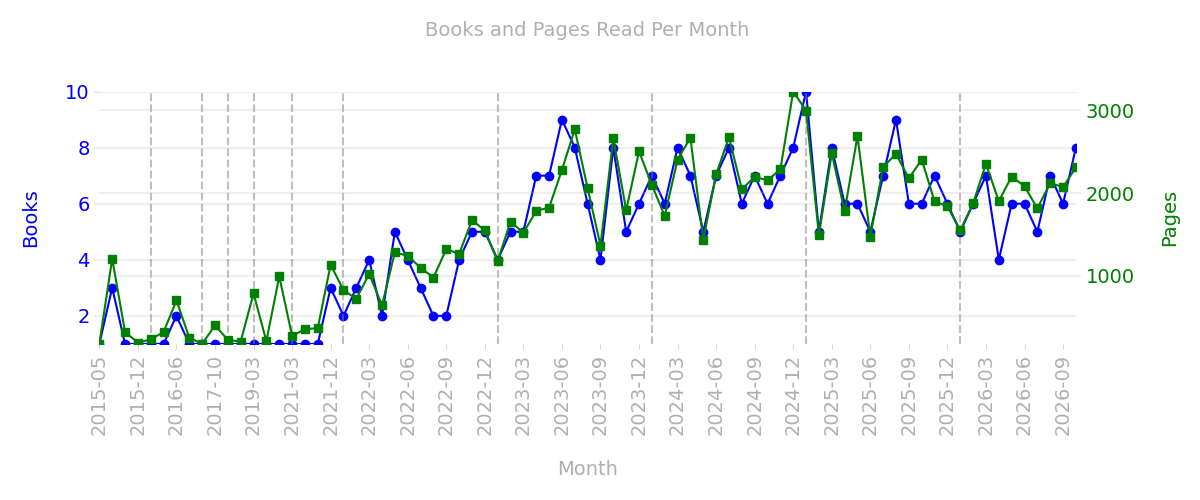
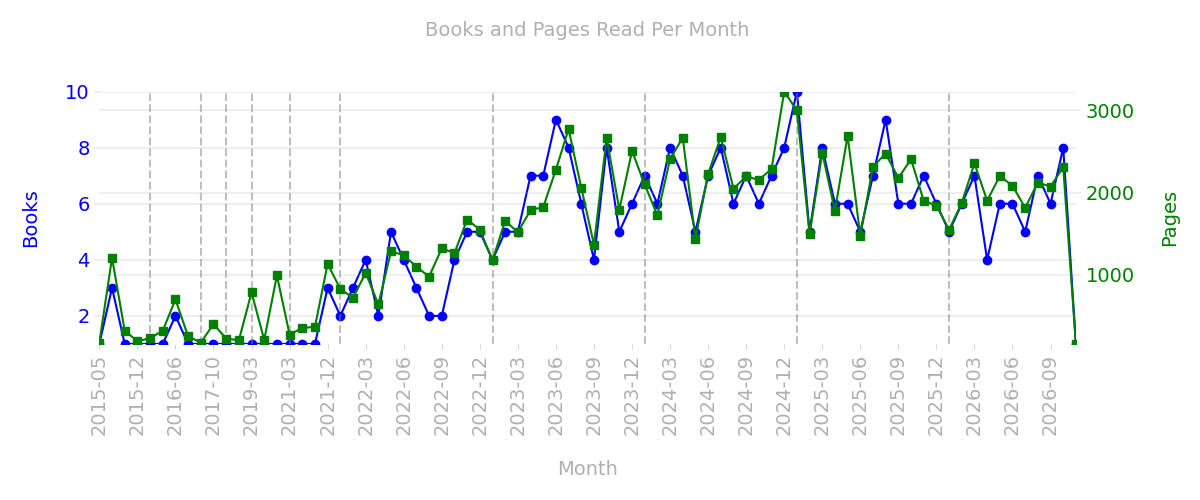
ökosemiootiak

Changed region(s): [[0.0925, 0.18, 0.9558, 0.69], [0.0925, 0.72, 0.8942, 0.87], [0.8942, 0.54, 0.9558, 0.57]]

diff --git a/Views/Books_2026.md b/Views/Books_2026.md
@@ -1,6 +1,6 @@
 # Books Read in 2026
 
-**Total: 60 books**
+**Total: 61 books**
 
 ### Incorruptible: Why Good Companies Go Bad and How Great Companies Stay Great
 **Author:** Eric Ries  
@@ -1079,6 +1079,19 @@ Ranging from Aristotle, Schopenhauer, and John Stuart Mill to Virginia Woolf and
 ![[covers/Systems Thinking Made Simple New Hope for Solving Wicked Problems.jpg|150]]  
 
 Systems thinking can help us solve everyday and wicked problems, increase our personal effectiveness as human beings, and transform our organizations. This book is for anyone interested in learning the foundational ideas of systems thinking. SIMPLE RULES OF SYSTEMS THINKING Systems Thinking Made Simple doesn't mean that we're going to oversimplify it like a ... for Dummies book. It means that we will show how systems thinking emerges when we focus on a simple set of rules. After years of searching for unifying principles, many experts and practitioners in the field of systems thinking have embraced DSRP as universal to all systems thinking methods. Originally a complex mathematical formulation, DSRP has since been made more accessible through powerful modeling and visualization tools. There are two surprising things about our new understanding of systems thinking. First is how simple the four rules DISTINCTIONS Any idea or thing can be distinguished from the other ideas or things it is with SYSTEMS Any idea or thing can be split into parts or lumped into a whole RELATIONSHIP Any idea or thing can relate to other things or ideas PERSPECTIVES Any thing or idea can be the point or the view of a perspective.
+
+---
+
+### Ökosemiootika. Märgiuuringud ja ökoloogiline muutus
+**Author:** Timo Maran  
+**Published:** 2022  
+**Finished:** 2026-11  
+**Rating:** ⭐⭐⭐⭐⭐  
+**Pages:** 160  
+
+![[covers/Ökosemiootika Märgiuuringud ja ökoloogiline muutus.jpg|150]]  
+
+Raamat esitab sissejuhatuse ökosemiootikasse ja näitab selle asjakohasust tänapäeva ebastabiilsete kultuuri ja looduse suhete uurimisel. Ökosemiootikat võib defineerida kui nende märgiprotsesside uurimist, millest ökoloogilised nähtused sõltuvad. Mõtisklusi esitatakse teoses kolmes etapis, ammutades inspiratsiooni nii humanitaarteadustest kui ka bioloogiast. Esimeses peatükis selgitatakse märkide vahendatud suhete mitmekesisust, ulatust ja mõju looduskeskkonnas, alates üksikindiviidi tasandist kuni ökosüsteemi funktsioneerimiseni. Teises peatükis näidatakse eri viise, kuidas eelkeelelised semiootilised suhted on osa kultuurist ning osutatakse kahjulikele keskkonnamõjudele, mille toovad kaasa enesesse sulgunud ja pelgalt sümbolipõhised märgisüsteemid. Kolmandas peatükis selgub, kuidas mudelitele ja modelleerimisele keskenduv ökosemiootiline analüüs suudab efektiivselt kaardistada tekstide ja looduskeskkonna suhteid või tuua esile nende puudumise ning kuidas saab seda lähenemist loominguliselt kasutada, et panna alus keskkonnasõbralikele kultuurivormidele ja -praktikatele. Käesolev teos on ökosemiootika esimene raamatu mahus tutvustus eesti keeles.
 
 ---
 

diff --git a/Library/Ökosemiootika Märgiuuringud ja ökoloogiline muutus.md b/Library/Ökosemiootika Märgiuuringud ja ökoloogiline muutus.md
@@ -1,0 +1,54 @@
+---
+type: book
+title: "Ökosemiootika. Märgiuuringud ja ökoloogiline muutus"
+author: "Timo Maran"
+
+isbn13: "9789985589229 "
+year_published: 2022
+
+date_started: ""
+date_finished: "2026-11-03"
+
+year_finished: 2026
+month_finished: "2026-11"
+
+rating: 5
+format: "paperback"
+pages: 160
+language: "et"
+
+tags:
+  - book
+
+cover: "covers/Ökosemiootika Märgiuuringud ja ökoloogiline muutus.jpg"
+---
+
+
+```dataviewjs
+if (dv.current().cover) { dv.paragraph("![[" + dv.current().cover + "]]"); }
+```
+
+# `= this.title`
+**Author:** `= this.author`
+
+---
+
+## 📝 My description
+Raamat esitab sissejuhatuse ökosemiootikasse ja näitab selle asjakohasust tänapäeva ebastabiilsete kultuuri ja looduse suhete uurimisel. Ökosemiootikat võib defineerida kui nende märgiprotsesside uurimist, millest ökoloogilised nähtused sõltuvad. Mõtisklusi esitatakse teoses kolmes etapis, ammutades inspiratsiooni nii humanitaarteadustest kui ka bioloogiast. Esimeses peatükis selgitatakse märkide vahendatud suhete mitmekesisust, ulatust ja mõju looduskeskkonnas, alates üksikindiviidi tasandist kuni ökosüsteemi funktsioneerimiseni. Teises peatükis näidatakse eri viise, kuidas eelkeelelised semiootilised suhted on osa kultuurist ning osutatakse kahjulikele keskkonnamõjudele, mille toovad kaasa enesesse sulgunud ja pelgalt sümbolipõhised märgisüsteemid. Kolmandas peatükis selgub, kuidas mudelitele ja modelleerimisele keskenduv ökosemiootiline analüüs suudab efektiivselt kaardistada tekstide ja looduskeskkonna suhteid või tuua esile nende puudumise ning kuidas saab seda lähenemist loominguliselt kasutada, et panna alus keskkonnasõbralikele kultuurivormidele ja -praktikatele. Käesolev teos on ökosemiootika esimene raamatu mahus tutvustus eesti keeles.
+
+---
+
+## 💡 Key ideas / quotes
+
+
+---
+
+## 🔁 Would I reread?
+- [x] Yes
+- [ ] No
+- [ ] Parts only
+
+---
+
+## ⭐ Final verdict
+
